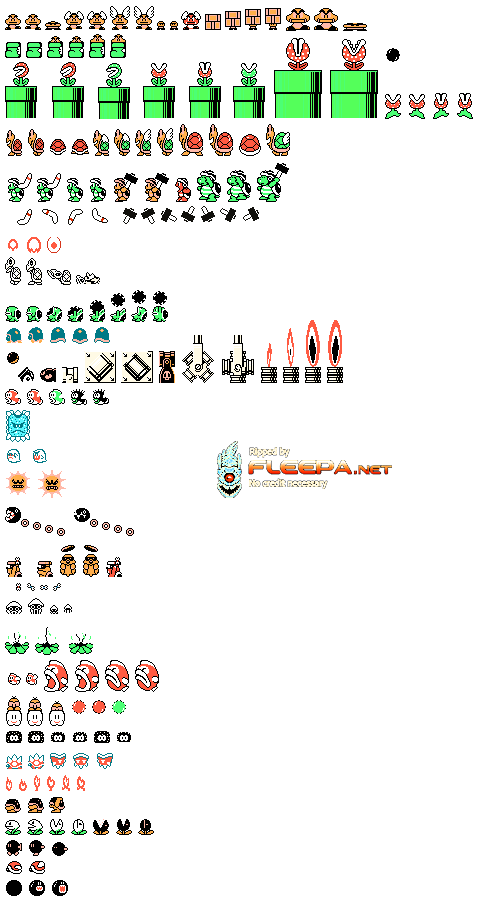
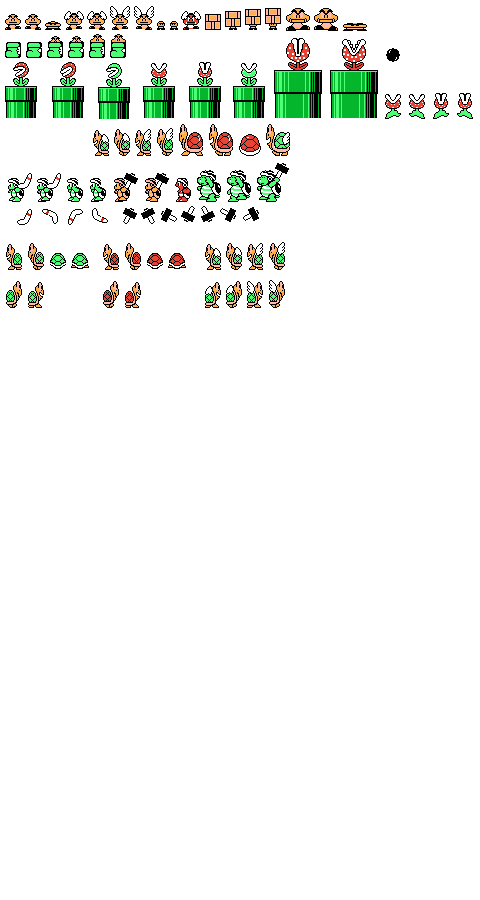
Add Koopa.

diff --git a/SuperMarioBros3/Koopa.cpp b/SuperMarioBros3/Koopa.cpp
@@ -1,0 +1,96 @@
+#include "Koopa.h"
+#include "Debug.h"
+
+CKoopa::CKoopa(float x, float y, int type) :CGameObject(x, y)
+{
+	this->ax = 0;
+	this->ay = KOOPA_GRAVITY;
+	this->type = type;
+	shell_start = -1;
+	SetState(KOOPA_STATE_WALKING);
+}
+
+void CKoopa::GetBoundingBox(float& left, float& top, float& right, float& bottom)
+{
+	if (state == KOOPA_STATE_SHELL)
+	{
+		left = x - KOOPA_BBOX_WIDTH / 2;
+		top = y - KOOPA_BBOX_HEIGHT_SHELL / 2;
+		right = left + KOOPA_BBOX_WIDTH;
+		bottom = top + KOOPA_BBOX_HEIGHT_SHELL;
+	}
+	else
+	{
+		left = x - KOOPA_BBOX_WIDTH / 2;
+		top = y - KOOPA_BBOX_HEIGHT / 2;
+		right = left + KOOPA_BBOX_WIDTH;
+		bottom = top + KOOPA_BBOX_HEIGHT;
+	}
+}
+
+void CKoopa::OnNoCollision(DWORD dt)
+{
+	x += vx * dt;
+	y += vy * dt;
+};
+
+void CKoopa::OnCollisionWith(LPCOLLISIONEVENT e)
+{
+	if (!e->obj->IsBlocking()) return;
+	if (dynamic_cast<CKoopa*>(e->obj)) return;
+
+	if (e->ny != 0)
+	{
+		vy = 0;
+	}
+	else if (e->nx != 0)
+	{
+		vx = -vx;
+	}
+}
+
+void CKoopa::Update(DWORD dt, vector<LPGAMEOBJECT>* coObjects)
+{
+	vy += ay * dt;
+	vx += ax * dt;
+
+	if ((state == KOOPA_STATE_SHELL) && (GetTickCount64() - shell_start > KOOPA_SHELL_TIMEOUT))
+	{
+		isDeleted = true;
+		return;
+	}
+
+	CGameObject::Update(dt, coObjects);
+	CCollision::GetInstance()->Process(this, dt, coObjects);
+}
+
+
+void CKoopa::Render()
+{
+	int aniId = ID_ANI_KOOPA_WALKING;
+	if (state == KOOPA_STATE_SHELL)
+	{
+		aniId = ID_ANI_KOOPA_SHELL;
+	}
+
+	CAnimations::GetInstance()->Get(aniId)->Render(x, y);
+	//RenderBoundingBox();
+}
+
+void CKoopa::SetState(int state)
+{
+	CGameObject::SetState(state);
+	switch (state)
+	{
+	case KOOPA_STATE_SHELL:
+		shell_start = GetTickCount64();
+		y += (KOOPA_BBOX_HEIGHT - KOOPA_BBOX_HEIGHT_SHELL) / 2;
+		vx = 0;
+		vy = 0;
+		ay = 0;
+		break;
+	case KOOPA_STATE_WALKING:
+		vx = -KOOPA_WALKING_SPEED;
+		break;
+	}
+}

diff --git a/SuperMarioBros3/Koopa.h b/SuperMarioBros3/Koopa.h
@@ -1,0 +1,43 @@
+#pragma once
+#include "GameObject.h"
+
+#define KOOPA_GRAVITY 0.002f
+#define KOOPA_WALKING_SPEED 0.04f
+
+
+#define KOOPA_BBOX_WIDTH 16
+#define KOOPA_BBOX_HEIGHT 24
+#define KOOPA_BBOX_HEIGHT_SHELL 14
+
+#define KOOPA_SHELL_TIMEOUT 500
+
+#define KOOPA_STATE_WALKING 100
+#define KOOPA_STATE_SHELL 200
+
+#define ID_ANI_KOOPA_WALKING 90010
+#define ID_ANI_KOOPA_SHELL	90020
+#define ID_ANI_KOOPA_SHELL_WAKE 90030
+
+class CKoopa : public CGameObject
+{
+protected:
+	float ax;
+	float ay;
+	int type;		// 0: green normal, 1: green fly, 2: red normal, 3: red fly
+
+	ULONGLONG shell_start;
+
+	virtual void GetBoundingBox(float& left, float& top, float& right, float& bottom);
+	virtual void Update(DWORD dt, vector<LPGAMEOBJECT>* coObjects);
+	virtual void Render();
+
+	virtual int IsCollidable() { return 1; };
+	virtual int IsBlocking() { return 0; }
+	virtual void OnNoCollision(DWORD dt);
+
+	virtual void OnCollisionWith(LPCOLLISIONEVENT e);
+
+public:
+	CKoopa(float x, float y, int type = 0);
+	virtual void SetState(int state);
+};

diff --git a/SuperMarioBros3/PlayScene.cpp b/SuperMarioBros3/PlayScene.cpp
@@ -10,6 +10,7 @@
 #include "Coin.h"
 #include "Platform.h"
 #include "QuestionBlock.h"
+#include "Koopa.h"
 
 #include "GameMaps.h"
 
@@ -126,6 +127,13 @@ void CPlayScene::_ParseSection_OBJECTS(string line)
 		break;
 	
 	case OBJECT_TYPE_GOOMBA: obj = new CGoomba(x,y); break;
+	case OBJECT_TYPE_KOOPAS: 
+	{
+		int koopaType = (int)atoi(tokens[3].c_str());
+
+		obj = new CKoopa(x, y, koopaType);
+		break;
+	}
 	case OBJECT_TYPE_BRICK: obj = new CBrick(x,y); break;
 	//case OBJECT_TYPE_COIN: 
 	//{

diff --git a/SuperMarioBros3/AssetIDs.h b/SuperMarioBros3/AssetIDs.h
@@ -99,3 +99,8 @@
 #define ID_SPRITE_QUESTIONBLOCK 70000
 #define ID_ITEM	80000
 #define ID_ITEM_MUSHROOM	(ID_ITEM + 1000)
+
+
+#define ID_SPRITE_KOOPA	90000
+#define ID_SPRITE_KOOPA_WALK	(ID_SPRITE_KOOPA + 1000)
+#define ID_SPRITE_KOOPA_SHELL	(ID_SPRITE_KOOPA + 2000)

diff --git a/SuperMarioBros3/Mushroom.cpp b/SuperMarioBros3/Mushroom.cpp
@@ -27,6 +27,8 @@ void CMushroom::OnCollisionWith(LPCOLLISIONEVENT e)
 	{
 		CPlatform* platform = dynamic_cast<CPlatform*>(e->obj);
 
+		if (platform->getType() == 2) return;
+
 		if (e->ny < 0)
 		{
 			y -= Push_Up_Platform;

diff --git a/SuperMarioBros3/Platform.cpp b/SuperMarioBros3/Platform.cpp
@@ -63,7 +63,7 @@ void CPlatform::SetState(int st)
 
 int CPlatform::IsBlocking()
 {
-	if (state == PLATFORM_PASSABLE)
+	if (state == PLATFORM_PASSABLE || type == 2)
 		return 0;
 	else
 		return 1;

diff --git a/SuperMarioBros3/Goomba.cpp b/SuperMarioBros3/Goomba.cpp
@@ -72,7 +72,7 @@ void CGoomba::Render()
 	}
 
 	CAnimations::GetInstance()->Get(aniId)->Render(x,y);
-	RenderBoundingBox();
+	//RenderBoundingBox();
 }
 
 void CGoomba::SetState(int state)
